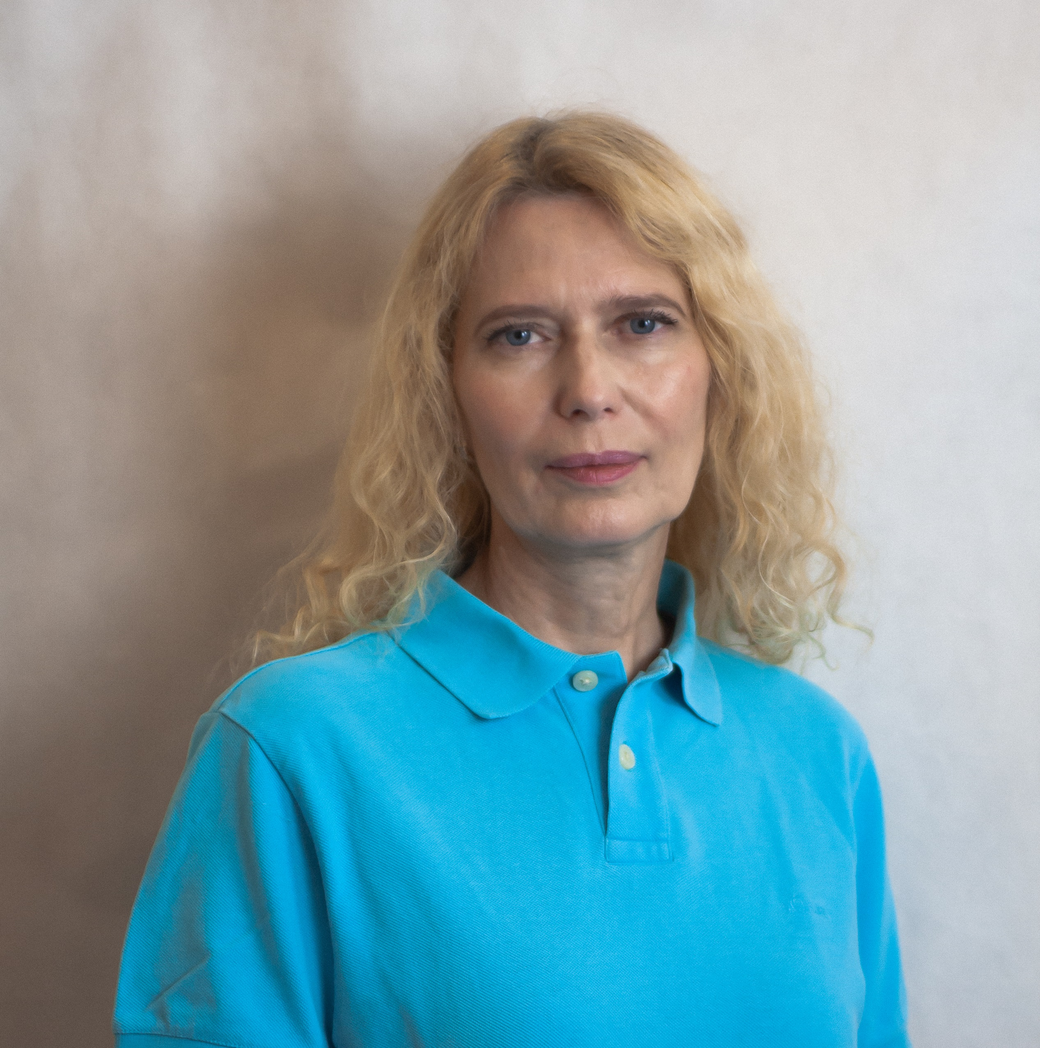
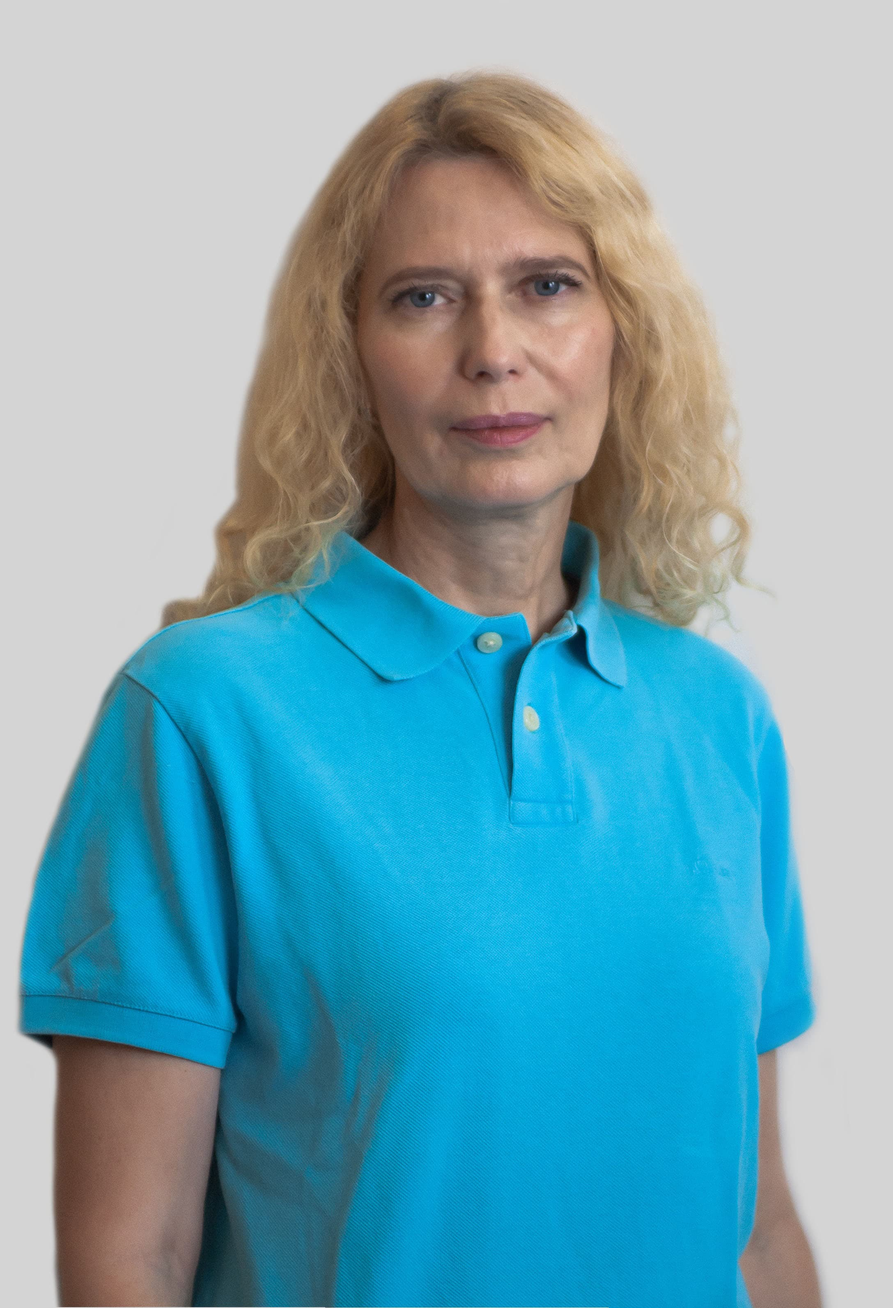
update_07/01/2025

diff --git a/src/components/Footer/Footer.jsx b/src/components/Footer/Footer.jsx
@@ -5,7 +5,7 @@ import { ReactComponent as EmailIcon } from '../../images/email_icon.svg';
 import { ReactComponent as AurumLogoSmall } from '../../images/Aurum_logo_small.svg';
 import { ReactComponent as FacebookIcon } from '../../images/facebook_icon.svg';
 import { ReactComponent as TelegramIcon } from '../../images/telegram_icon.svg';
-import { Link } from 'react-router-dom';
+import { Link, NavLink } from 'react-router-dom';
 
 const Footer = () => {
 const todayDate = new Date();
@@ -35,7 +35,7 @@ const currentYear = todayDate.getFullYear();
                         <a className={scss.contacts_text} href="mailto: info@clinic-aurum.com">info@clinic-aurum.com</a>
                     </div>
                     <div className={scss.contacts_services}>
-                        <FacebookIcon className={scss.contacts_icon_facebook}/>
+                        <Link to="https://www.facebook.com/profile.php?id=61571048378069&sk=about" target='_blank'><FacebookIcon className={scss.contacts_icon_facebook}/></Link>
                         <Link to="https://t.me/centeraurum" target='_blank'><TelegramIcon className={scss.contacts_icon_telegram}/></Link>
                     </div>
                 </div>
@@ -43,34 +43,34 @@ const currentYear = todayDate.getFullYear();
                     <p className={scss.services_title}>Реабілітаційна програма</p>
                     <ul className={scss.services_list}>
                         <li>
-                            <Link className={scss.services_item} to="/services/konsultaciya-likarya-fizichnoyi-ta-reabilitacijnoyi-medicini">Консультація лікаря фізичної та реабілітаційної медицини</Link>
+                            <NavLink className={({isActive}) => isActive ? scss.services_item_active : scss.services_item} to="/services/konsultaciya-likarya-fizichnoyi-ta-reabilitacijnoyi-medicini">Консультація лікаря фізичної та реабілітаційної медицини</NavLink>
                         </li>
                         <li>
-                            <Link className={scss.services_item} to="/services/konsultaciya-psihologa">Консультація психолога</Link>
+                            <NavLink className={({isActive}) => isActive ? scss.services_item_active : scss.services_item} to="/services/konsultaciya-psihologa">Консультація психолога</NavLink>
                         </li>
                         <li>
-                            <Link className={scss.services_item} to="/services/postizometrichna-relaksaciya">Постізометрична релаксація</Link>
+                            <NavLink className={({isActive}) => isActive ? scss.services_item_active : scss.services_item} to="/services/postizometrichna-relaksaciya">Постізометрична релаксація</NavLink>
                         </li>
                         <li>
-                            <Link className={scss.services_item} to="/services/refleksoterapiya">Рефлексотерапія</Link>
+                            <NavLink className={({isActive}) => isActive ? scss.services_item_active : scss.services_item} to="/services/refleksoterapiya">Рефлексотерапія</NavLink>
                         </li>
                         <li>
-                            <Link className={scss.services_item} to="/services/manualna-terapiya-hrebta-ta-suglobiv">Мануальна терапія</Link>
+                            <NavLink className={({isActive}) => isActive ? scss.services_item_active : scss.services_item} to="/services/manualna-terapiya-hrebta-ta-suglobiv">Мануальна терапія</NavLink>
                         </li>
                         <li>
-                            <Link className={scss.services_item} to="/services/ritmichne-vtirannya">Ритмічне втирання</Link>
+                            <NavLink className={({isActive}) => isActive ? scss.services_item_active : scss.services_item} to="/services/ritmichne-vtirannya">Ритмічне втирання</NavLink>
                         </li>
                         <li>
-                            <Link className={scss.services_item} to="/services/kinezioterapiya">Кінезіотерапія</Link>
+                            <NavLink className={({isActive}) => isActive ? scss.services_item_active : scss.services_item} to="/services/kinezioterapiya">Кінезіотерапія</NavLink>
                         </li>
                         <li>
-                            <Link className={scss.services_item} to="/services/gidrokinezioterapiya">Гідрокінезіотерапія</Link>
+                            <NavLink className={({isActive}) => isActive ? scss.services_item_active : scss.services_item} to="/services/gidrokinezioterapiya">Гідрокінезіотерапія</NavLink>
                         </li>
                         <li>
-                            <Link className={scss.services_item} to="/services/maslyano-dispersijni-vanni">Масляно-дисперсійні ванни</Link>
+                            <NavLink className={({isActive}) => isActive ? scss.services_item_active : scss.services_item} to="/services/maslyano-dispersijni-vanni">Масляно-дисперсійні ванни</NavLink>
                         </li>
                         <li>
-                            <Link className={scss.services_item} to="/services/aparatna-presoterapiya">Апаратна пресотерапія</Link>
+                            <NavLink className={({isActive}) => isActive ? scss.services_item_active : scss.services_item} to="/services/aparatna-presoterapiya">Апаратна пресотерапія</NavLink>
                         </li>
                     </ul>
                 </div>

diff --git a/src/pages/HomePage/HomePage.module.scss b/src/pages/HomePage/HomePage.module.scss
@@ -17,31 +17,21 @@
     background-color: transparent !important;
     box-shadow: none !important;
     border-radius: 50% !important;
-    width: 65px !important;
-    height: 65px !important;
+    width: 75px !important;
+    height: 75px !important;
     display: flex !important;
     align-items: center !important;
     justify-content: center !important;
-    z-index: 999 !important;
-
-    @media screen and (min-width: 768px) {
-        width: 75px !important;
-        height: 75px !important;
-    };
+    z-index: 9999 !important;
 };
 
 .arrowUp {
     color: #00A3FF;
-    width: 65px;
-    height: 65px;
+    width: 75px;
+    height: 75px;
     background-color: transparent;
     border-radius: 50%;
     box-shadow: 0px;
-
-    @media screen and (min-width: 768px) {
-        width: 75px;
-        height: 75px;
-    };
 };
 
 .content_container {
@@ -957,9 +947,9 @@
     width: 168px;
     height: 226px;
     border-radius: 24px;
-    background: url("../../images/team/team_member_3.jpg") lightgray 0% 0% / 22.40000069141388px 22.40000069141388px no-repeat;
-    background-size: cover;
-    background-position-x: 50%;
+    background: url("../../images/team/team_member_3.jpg") lightgray no-repeat;
+    background-position: 50% -15%;
+    background-size: 135%;
 
     @media screen and (min-width: 1024px) {
         width: 320px;
@@ -978,9 +968,10 @@
     width: 168px;
     height: 226px;
     border-radius: 24px;
-    background: url("../../images/team/team_member_4.jpg") lightgray -26.094px -5.802px / 131.25% 146.512% no-repeat;
+    background: url("../../images/team/team_member_4.jpg") lightgray no-repeat;
     background-size: cover;
-    background-position-x: 30%;
+    background-position: 40% -20%;
+    background-size: 108%;
 
     @media screen and (min-width: 1024px) {
         width: 320px;
@@ -999,9 +990,10 @@
     width: 168px;
     height: 226px;
     border-radius: 24px;
-    background: url("../../images/team/team_member_5.jpg") lightgray -26.094px -5.802px / 131.25% 146.512% no-repeat;
+    background: url("../../images/team/team_member_5.jpg") lightgray no-repeat;
     background-size: cover;
-    background-position-x: 30%;
+    background-position: -50% -10%;
+    background-size: 110%;
 
     @media screen and (min-width: 1024px) {
         width: 320px;
@@ -1020,51 +1012,10 @@
     width: 168px;
     height: 226px;
     border-radius: 24px;
-    background: url("../../images/team/team_member_6.jpg") lightgray -26.094px -5.802px / 131.25% 146.512% no-repeat;
+    background: url("../../images/team/team_member_6.jpg") lightgray no-repeat;
     background-size: cover;
-    background-position-x: 60%;
-
-    @media screen and (min-width: 1024px) {
-        width: 320px;
-        height: 430px;
-    };
-};
-
-.team_list_item7 {
-    position: relative;
-    display: flex;
-    flex-direction: column;
-    align-items: center;
-    justify-content: flex-end;
-    box-sizing: border-box;
-    padding-bottom: 15px;
-    width: 168px;
-    height: 226px;
-    border-radius: 24px;
-    background: #fff;
-    background-size: cover;
-    background-position-x: 60%;
-
-    @media screen and (min-width: 1024px) {
-        width: 320px;
-        height: 430px;
-    };
-};
-
-.team_list_item8 {
-    position: relative;
-    display: flex;
-    flex-direction: column;
-    align-items: center;
-    justify-content: flex-end;
-    box-sizing: border-box;
-    padding-bottom: 15px;
-    width: 168px;
-    height: 226px;
-    border-radius: 24px;
-    background: #fff;
-    background-size: cover;
-    background-position-x: 60%;
+    background-position: 50% 5%;
+    background-size: 125%;
 
     @media screen and (min-width: 1024px) {
         width: 320px;

diff --git a/src/pages/ServicesPage/ServicePage8.jsx b/src/pages/ServicesPage/ServicePage8.jsx
@@ -1,5 +1,5 @@
 import scss from "./ServicePage.module.scss";
-import service7 from '../../images/services/service7.jpg';
+import service8 from '../../images/services/service8.jpg';
 
 const ServicePage8 = () => {
 
@@ -8,7 +8,7 @@ const ServicePage8 = () => {
         <div className={scss.main_wrapper}>
             <h1 className={scss.title}>Гідрокінезіотерапія</h1>
             <div className={scss.content_wrapper}>
-              <img src={service7} alt='serviceImage' className={scss.image}/>
+              <img src={service8} alt='serviceImage' className={scss.image}/>
               <span className={scss.description}>Засіб фізичної реабілітації, який полягає у виконанні  фізичної терапії (спеціальних фізичних вправ) у водному середовищі (басейні). Особливістю гідрокінезотерапії є поєднання виконання фізичних вправ в умовах антигравітаційного середовища, хімічного та температурного фактору води з лікувальною і профілактичною метою. Заняття проводяться під наглядом лікаря фізичної та реабілітаційної медицини та/або фахівцем з фізичної реабілітації.</span>
             </div>
         </div>

diff --git a/src/pages/HomePage/HomePage.jsx b/src/pages/HomePage/HomePage.jsx
@@ -157,7 +157,7 @@ const HomePage = () => {
                                 <span className={scss.team_list_name}>Наталія </span>
                                 <span className={scss.team_list_surname}>Дмитрієва</span>
                             </div>
-                            <span className={scss.team_list_job}>Директор центру</span>
+                            <span className={scss.team_list_job}>Директор Центру</span>
                             <div className={scss.team_list_layer}></div>
                         </li>
                         <li className={scss.team_list_item6}>
@@ -165,7 +165,7 @@ const HomePage = () => {
                                 <span className={scss.team_list_name}>Марина </span>
                                 <span className={scss.team_list_surname}>Сидоренко</span>
                             </div>
-                            <span className={scss.team_list_job}>Адміністратор центру</span>
+                            <span className={scss.team_list_job}>Адміністратор Центру</span>
                             <div className={scss.team_list_layer}></div>
                         </li>
                     </ul>

diff --git a/src/components/Partners/Partners.jsx b/src/components/Partners/Partners.jsx
@@ -19,6 +19,7 @@ import Partner16 from '../../images/partners/АРТ_А.jpg';
 import Partner17 from '../../images/partners/Suziria.png';
 import Partner18 from '../../images/partners/Dopomogator.png';
 import Partner19 from '../../images/partners/Vertolet.png';
+import Partner20 from '../../images/partners/KMH.jpg';
 
 const Partners = () => {
   return (
@@ -43,6 +44,7 @@ const Partners = () => {
         <li className={scss.partners_list_item}><img src={Partner17} alt="logo" className={scss.partner_logo}/></li>
         <li className={scss.partners_list_item}><img src={Partner18} alt="logo" className={scss.partner_logo}/></li>
         <li className={scss.partners_list_item}><img src={Partner19} alt="logo" className={scss.partner_logo}/></li>
+        <li className={scss.partners_list_item}><img src={Partner20} alt="logo" className={scss.partner_logo}/></li>
     </ul>
   )
 };

diff --git a/src/components/Layout/Layout.module.scss b/src/components/Layout/Layout.module.scss
@@ -67,28 +67,19 @@
     background-color: transparent !important;
     box-shadow: none !important;
     border-radius: 50% !important;
-    width: 65px !important;
-    height: 65px !important;
+    width: 75px !important;
+    height: 75px !important;
     display: flex !important;
     align-items: center !important;
     justify-content: center !important;
-
-    @media screen and (min-width: 768px) {
-        width: 75px !important;
-        height: 75px !important;
-    };
+    z-index: 9999 !important;
 };
 
 .arrowUp {
     color: #00A3FF;
-    width: 65px;
-    height: 65px;
+    width: 75px;
+    height: 75px;
     background-color: transparent;
     border-radius: 50%;
     box-shadow: 0px;
-
-    @media screen and (min-width: 768px) {
-        width: 75px;
-        height: 75px;
-    };
 };

diff --git a/src/components/Header/Header.jsx b/src/components/Header/Header.jsx
@@ -123,7 +123,7 @@ const Header = () => {
           </div>
           <button type="button" className={scss.menu_button} onClick={openMobileMenu}><IoMdMenu className={scss.menu_icon}/></button>
           <div className={scss.socials}>
-            <FacebookIcon className={scss.socials_icon_facebook}/>
+            <Link to="https://www.facebook.com/profile.php?id=61571048378069&sk=about" target='_blank'><FacebookIcon className={scss.socials_icon_facebook}/></Link>
             <Link to="https://t.me/centeraurum" target='_blank'><TelegramIcon className={scss.socials_icon_telegram}/></Link>
           </div>
         </div>

diff --git a/src/components/ServicesSlider/ServicesSlider.jsx b/src/components/ServicesSlider/ServicesSlider.jsx
@@ -13,7 +13,7 @@ import service4 from '../../images/services/service4.jpg';
 import service5 from '../../images/services/service5.png';
 import service6 from '../../images/services/service6.jpg';
 import service7 from '../../images/services/service7.jpg';
-import service8 from '../../images/services/service7.jpg';
+import service8 from '../../images/services/service8.jpg';
 import service9 from '../../images/services/service9.jpg';
 import service10 from '../../images/services/service10.jpg';
 

diff --git a/src/components/Footer/Footer.module.scss b/src/components/Footer/Footer.module.scss
@@ -145,6 +145,17 @@
     };
 };
 
+.services_item_active {
+    color: #00A3FF;
+    font-family: "Exo2-Regular";
+    font-size: 14px;
+    font-style: normal;
+    font-weight: 400;
+    line-height: normal;
+    text-decoration: none;
+    cursor: pointer;
+};
+
 .politics {
     display: flex;
     flex-direction: row;

diff --git a/src/pages/AboutVideoPage/AboutVideoPage.jsx b/src/pages/AboutVideoPage/AboutVideoPage.jsx
@@ -1,5 +1,5 @@
 import scss from './AboutVideoPage.module.scss';
-import ReactPlayer from 'react-player'
+import ReactPlayer from 'react-player';
 
 const AboutVideoPage = () => {
 
